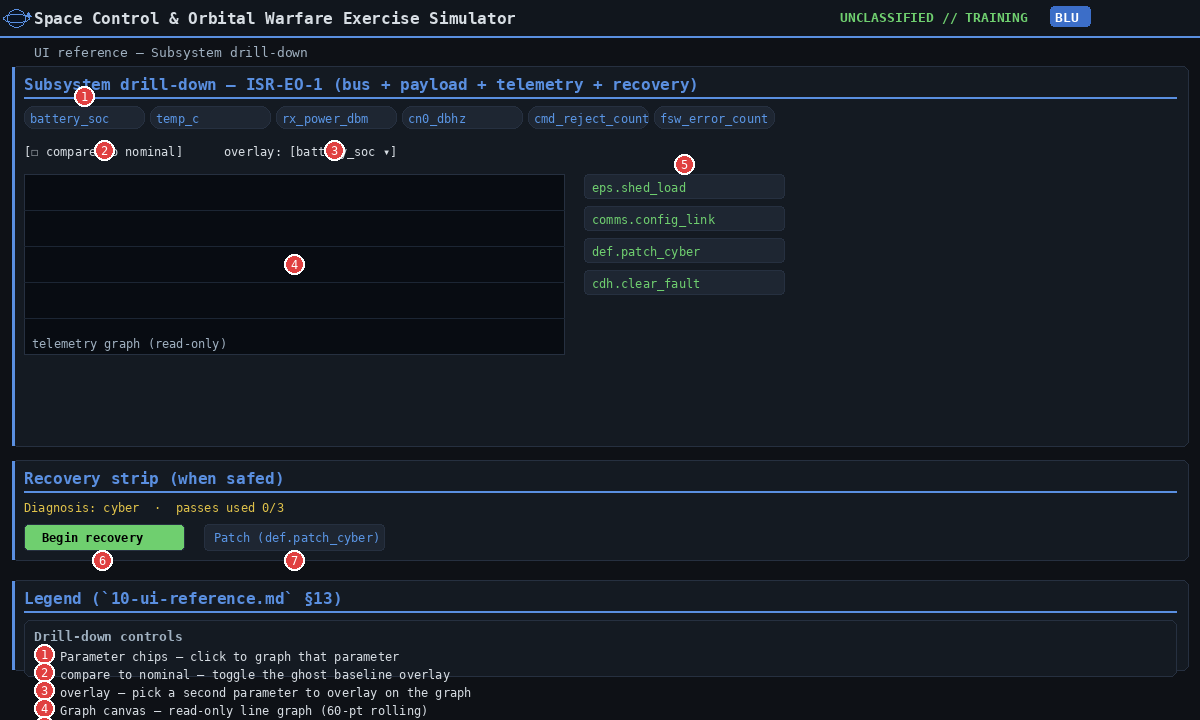
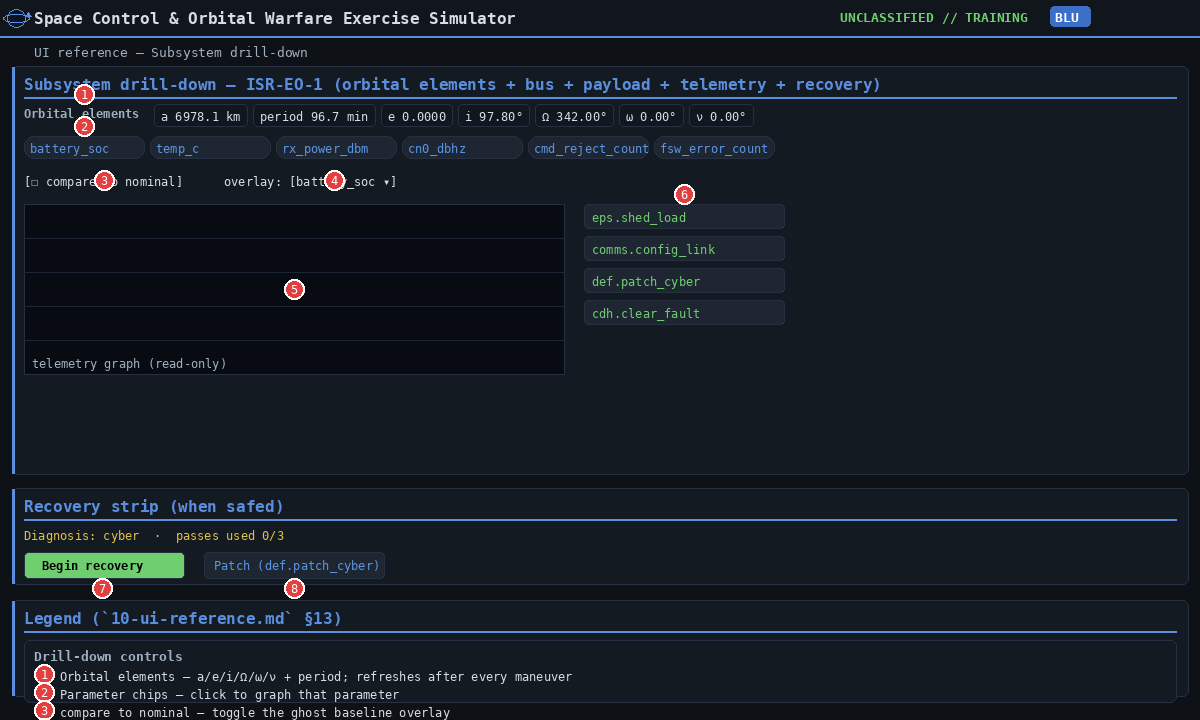
Regenerate manual screenshots; show COE block in drill-down reference
render_manual.py now draws the "Orbital elements" (a/e/i/Ω/ω/ν + period)
strip in the subsystem drill-down reference, using real ISR-EO-1 values
from the leo-isr-denial scene — matching the live UI block added this
session. Renumbered the drill callouts (1 = orbital elements) and synced
the §13 control table in 10-ui-reference.md.

All other rendered panels are byte-identical (deterministic generator).

https://claude.ai/code/session_01BC7J68pRHgegEH4C1NGFrC

diff --git a/tools/render_manual.py b/tools/render_manual.py
@@ -1833,7 +1833,24 @@ def s_ref_aar():
 
 def s_ref_drill():
     img, d = canvas("blue", "UI reference — Subsystem drill-down")
-    px, py = panel(d, 12, 66, W - 24, 380, "Subsystem drill-down — ISR-EO-1 (bus + payload + telemetry + recovery)")
+    px, py = panel(d, 12, 66, W - 24, 408, "Subsystem drill-down — ISR-EO-1 (orbital elements + bus + payload + telemetry + recovery)")
+    # Orbital elements (COE) strip — real values from the leo-isr-denial scene, matching the
+    # live drill-down's "Orbital elements" block.
+    _coe_m = SessionManager(load_vignette("leo-isr-denial"), seed=1); _coe_m.start()
+    _ra = next(a for a in _coe_m.get_scene("blue").assets if a.id == "ISR-EO-1")
+    d.text((px, py), "Orbital elements", font=f12b, fill=MUTED)
+    coes = [("a", f"{_ra.a_km:.1f} km"), ("period", f"{_ra.period_min:.1f} min"), ("e", f"{_ra.e:.4f}"),
+            ("i", f"{_ra.i_deg:.2f}°"), ("Ω", f"{_ra.raan_deg:.2f}°"),
+            ("ω", f"{_ra.argp_deg:.2f}°"), ("ν", f"{_ra.ta_deg:.2f}°")]
+    ex = px + 130
+    for lab, val in coes:
+        txt = f"{lab} {val}"
+        wpx = int(d.textlength(txt, font=f12)) + 14
+        d.rounded_rectangle([ex, py - 2, ex + wpx, py + 20], radius=5, fill=(17,23,31), outline=BORDER)
+        d.text((ex + 7, py + 3), txt, font=f12, fill=TEXT)
+        ex += wpx + 6
+    callout(d, px + 60, py - 12, 1)
+    py += 30
     # Parameter chips
     chips = ["battery_soc","temp_c","rx_power_dbm","cn0_dbhz","cmd_reject_count","fsw_error_count"]
     cx = px
@@ -1841,44 +1858,45 @@ def s_ref_drill():
         d.rounded_rectangle([cx, py, cx + 120, py + 22], radius=10, fill=(30,38,50), outline=BORDER)
         d.text((cx + 6, py + 5), c, font=f12, fill=BLUEc)
         cx += 126
-    callout(d, px + 60, py - 10, 1)
+    callout(d, px + 60, py - 10, 2)
     # Toggles
     y2 = py + 38
-    d.text((px, y2), "[☐ compare to nominal]", font=f12, fill=TEXT); callout(d, px + 80, y2 + 6, 2)
-    d.text((px + 200, y2), "overlay: [battery_soc ▾]", font=f12, fill=TEXT); callout(d, px + 310, y2 + 6, 3)
+    d.text((px, y2), "[☐ compare to nominal]", font=f12, fill=TEXT); callout(d, px + 80, y2 + 6, 3)
+    d.text((px + 200, y2), "overlay: [battery_soc ▾]", font=f12, fill=TEXT); callout(d, px + 310, y2 + 6, 4)
     # Graph rectangle
-    gx, gy, GW, GH = px, y2 + 30, 540, 180
+    gx, gy, GW, GH = px, y2 + 30, 540, 170
     d.rectangle([gx, gy, gx + GW, gy + GH], fill=(8,12,18), outline=BORDER)
     for k in range(1, 5):
         d.line([gx, gy + k * GH // 5, gx + GW, gy + k * GH // 5], fill=(28,38,52))
     d.text((gx + 8, gy + GH - 18), "telemetry graph (read-only)", font=f12, fill=MUTED)
-    callout(d, gx + 270, gy + 90, 4)
+    callout(d, gx + 270, gy + 85, 5)
     # Verb buttons on the right
     vx = px + 560; vy = y2 + 30
     for i, vb in enumerate(["eps.shed_load","comms.config_link","def.patch_cyber","cdh.clear_fault"]):
         d.rounded_rectangle([vx, vy + i*32, vx + 200, vy + 24 + i*32], radius=4, fill=(30,38,50), outline=BORDER)
         d.text((vx + 8, vy + 6 + i*32), vb, font=f12, fill=GREEN)
-    callout(d, vx + 100, vy - 10, 5)
+    callout(d, vx + 100, vy - 10, 6)
     # Recovery strip
-    rx, ry = panel(d, 12, 460, W - 24, 100, "Recovery strip (when safed)")
+    rx, ry = panel(d, 12, 488, W - 24, 96, "Recovery strip (when safed)")
     d.text((rx, ry), "Diagnosis: cyber  ·  passes used 0/3", font=f12, fill=YELLOW)
     d.rounded_rectangle([rx, ry + 24, rx + 160, ry + 50], radius=4, fill=GREEN, outline=BORDER)
-    d.text((rx + 18, ry + 30), "Begin recovery", font=f12b, fill=(0,0,0)); callout(d, rx + 78, ry + 60, 6)
+    d.text((rx + 18, ry + 30), "Begin recovery", font=f12b, fill=(0,0,0)); callout(d, rx + 78, ry + 60, 7)
     d.rounded_rectangle([rx + 180, ry + 24, rx + 360, ry + 50], radius=4, fill=(30,38,50), outline=BORDER)
-    d.text((rx + 190, ry + 30), "Patch (def.patch_cyber)", font=f12, fill=BLUEc); callout(d, rx + 270, ry + 60, 7)
+    d.text((rx + 190, ry + 30), "Patch (def.patch_cyber)", font=f12, fill=BLUEc); callout(d, rx + 270, ry + 60, 8)
 
-    lx, ly = panel(d, 12, 580, W - 24, 90, "Legend (`10-ui-reference.md` §13)")
-    legend(d, lx, ly, W - 48, 56, "Drill-down controls", [
-        (1, "Parameter chips — click to graph that parameter"),
-        (2, "compare to nominal — toggle the ghost baseline overlay"),
-        (3, "overlay — pick a second parameter to overlay on the graph"),
-        (4, "Graph canvas — read-only line graph (60-pt rolling)"),
-        (5, "Verb buttons — one-click load the command into the compose form"),
-        (6, "Begin recovery — start the multi-pass safe-mode chain"),
-        (7, "Patch (def.patch_cyber) — load the patch-cyber command pre-filled"),
+    lx, ly = panel(d, 12, 600, W - 24, 96, "Legend (`10-ui-reference.md` §13)")
+    legend(d, lx, ly, W - 48, 62, "Drill-down controls", [
+        (1, "Orbital elements — a/e/i/Ω/ω/ν + period; refreshes after every maneuver"),
+        (2, "Parameter chips — click to graph that parameter"),
+        (3, "compare to nominal — toggle the ghost baseline overlay"),
+        (4, "overlay — pick a second parameter to overlay on the graph"),
+        (5, "Graph canvas — read-only line graph (60-pt rolling)"),
+        (6, "Verb buttons — one-click load the command into the compose form"),
+        (7, "Begin recovery — start the multi-pass safe-mode chain"),
+        (8, "Patch (def.patch_cyber) — load the patch-cyber command pre-filled"),
     ])
     _ref_save(img, "ref-13-drill.png",
-              "UI reference §13 — Subsystem drill-down: parameter chips + nominal/overlay toggles + graph + per-verb buttons + recovery strip.")
+              "UI reference §13 — Subsystem drill-down: orbital elements + parameter chips + nominal/overlay toggles + graph + per-verb buttons + recovery strip.")
 
 
 def s_ref_activity():

diff --git a/docs/training/10-ui-reference.md b/docs/training/10-ui-reference.md
@@ -314,13 +314,14 @@ The **Same group** helper requires an Actor already selected and uses its `group
 
 | # | Control | Type | Effect / valid values |
 |---|---|---|---|
-| 1 | Parameter chips | clickable chips | Click to graph that telemetry parameter. |
-| 2 | compare to nominal | checkbox | Overlay the clean baseline (`?nominal=1`). |
-| 3 | overlay | dropdown | Pick a second parameter to overlay on the graph. |
-| 4 | Graph canvas | read-only | 60-pt rolling line graph from `GET /telemetry/{cell}/{asset}/{param}`. |
-| 5 | Verb buttons | per-subsystem cards | One-click load the command verb into the compose form. |
-| 6 | Begin recovery | button | (Recovery strip) `POST /recovery/{cell}/{asset}` — start the multi-pass chain. |
-| 7 | Patch (def.patch_cyber) | button | (Recovery strip) Load the patch-cyber command pre-filled with the first unpatched vector. |
+| 1 | Orbital elements | read-only strip | a / e / i / Ω / ω / ν + period for the selected satellite, from the scene; refreshes on every poll so a maneuver's new orbit shows within ~1.5 s. Hidden for ground assets. |
+| 2 | Parameter chips | clickable chips | Click to graph that telemetry parameter. |
+| 3 | compare to nominal | checkbox | Overlay the clean baseline (`?nominal=1`). |
+| 4 | overlay | dropdown | Pick a second parameter to overlay on the graph. |
+| 5 | Graph canvas | read-only | 60-pt rolling line graph from `GET /telemetry/{cell}/{asset}/{param}`. |
+| 6 | Verb buttons | per-subsystem cards | One-click load the command verb into the compose form. |
+| 7 | Begin recovery | button | (Recovery strip) `POST /recovery/{cell}/{asset}` — start the multi-pass chain. |
+| 8 | Patch (def.patch_cyber) | button | (Recovery strip) Load the patch-cyber command pre-filled with the first unpatched vector. |
 
 The recovery strip appears only when the selected asset's bus is in safe mode. The subsystem
 log under the graph is read-only.

diff --git a/docs/manual/INDEX.md b/docs/manual/INDEX.md
@@ -57,6 +57,6 @@ install a browser, so these paint the web UI's panels from genuine fog-filtered 
 - **ref-10-globe.png** — UI reference §10 — 3D globe viewer: zoom / tilt / zoom-to / map / spin / Reset + drag-to-rotate + wheel-to-zoom.
 - **ref-11-map.png** — UI reference §11 — 2D belief map: zoom / center / map / tracks / grid / Reset + drag-to-pan + wheel-to-zoom.
 - **ref-12-aar.png** — UI reference §12 — AAR: scrubber + bookmarks + CSV/JSON download + branch save/compare.
-- **ref-13-drill.png** — UI reference §13 — Subsystem drill-down: parameter chips + nominal/overlay toggles + graph + per-verb buttons + recovery strip.
+- **ref-13-drill.png** — UI reference §13 — Subsystem drill-down: orbital elements + parameter chips + nominal/overlay toggles + graph + per-verb buttons + recovery strip.
 - **ref-15-activity.png** — UI reference §15 — Cell activity timeline: per-cell Gantt of past + present + scheduled orders, with status-encoded bars and fog-of-war filtering.
 - **ref-14-modals-keys.png** — UI reference §14 — Modals & overlays + keyboard shortcuts + mouse / canvas interactions.